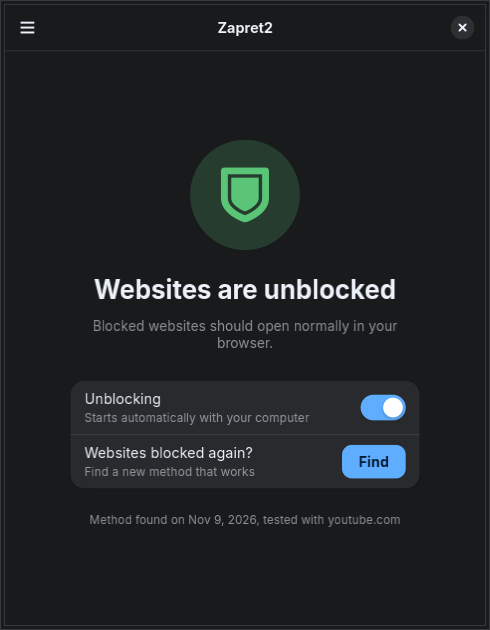
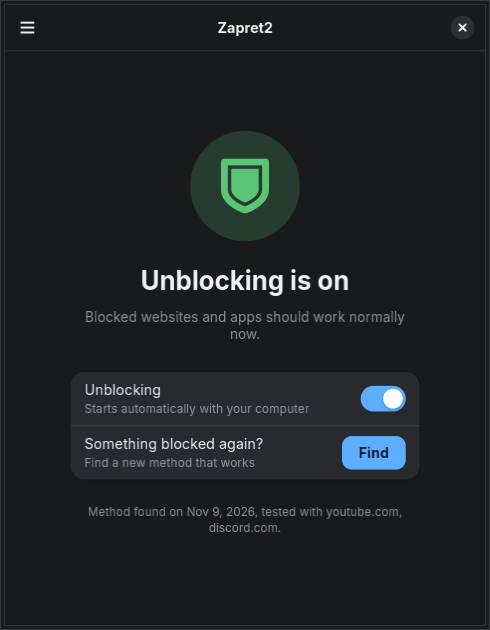
Document tray, autostart and several websites

diff --git a/README.md b/README.md
@@ -1,6 +1,6 @@
 # Zapret2 GUI
 
-One-click DPI bypass for Linux. Type a website that is blocked for you, and Zapret2 GUI sets up [zapret2](https://github.com/bol-van/zapret2), finds a bypass method that works on your connection and keeps it running.
+One-click DPI bypass for Linux. Type the websites that are blocked for you, and Zapret2 GUI sets up [zapret2](https://github.com/bol-van/zapret2), finds a bypass method that works on your connection and keeps it running for all websites and apps.
 
 <p align="center">
   <picture>
@@ -13,15 +13,16 @@ One-click DPI bypass for Linux. Type a website that is blocked for you, and Zapr
   </picture>
   <picture>
     <source media="(prefers-color-scheme: dark)" srcset="docs/screenshots/home-dark.png">
-    <img alt="Websites are unblocked" src="docs/screenshots/home-light.png" width="32%">
+    <img alt="Unblocking is on" src="docs/screenshots/home-light.png" width="32%">
   </picture>
 </p>
 
 - No setup or knowledge needed: zapret2 is installed and configured for your system automatically.
 - Finds a working method with zapret2's own `blockcheck2` in its fastest mode.
+- Test several websites at once without making the search slower. For blocked apps, enter the website they use.
 - Bypass only applies to blocked sites (autohostlist), other sites are not touched.
-- On/off switch, starts with your computer.
-- Sites blocked again? Press **Find** to search for a new method.
+- Lives in the tray, starts with your computer. On/off from the tray menu.
+- Something blocked again? Press **Find** to search for a new method.
 
 ## Install
 
@@ -60,11 +61,15 @@ Packages and the install script pull these in automatically.
 
 ## Use
 
-1. Type a website that does not open for you.
+1. Type a website that does not open for you. Press **Add another website** for more. For a blocked app, type the website it uses, like `discord.com`.
 2. Press **Find a working method** and wait a few minutes.
-3. Done. Blocked websites open normally in any browser.
+3. Done. Blocked websites and apps work normally.
 
-If sites stop opening later, press **Find** to search again. The switch turns unblocking off and on.
+Closing the window keeps Zapret2 in the tray, and it starts there when you log in. Click the tray icon to open it, right-click for the on/off switch, a new search, or **Quit**. Unblocking itself is a system service, so it keeps working even when the app is closed.
+
+If something stops working later, press **Find** to search again.
+
+The tray needs a desktop with tray support: KDE Plasma, Cinnamon, XFCE, Budgie, LXQt and most others. On GNOME, install the [AppIndicator extension](https://extensions.gnome.org/extension/615/appindicator-support/) (Ubuntu has it by default). Without a tray, closing the window quits the app. To stop it starting at login, turn it off in your desktop's autostart settings or delete `/etc/xdg/autostart/zapret2-gui.desktop`.
 
 ## Uninstall
 
@@ -81,7 +86,7 @@ Uninstalling also stops and removes zapret2 and its firewall rules. Dependencies
 ## How it works
 
 - **Setup** downloads the latest zapret2 release, verifies its binaries against the release checksums and runs zapret2's `install_easy.sh` with every answer preset: nfqws2 on, autohostlist filtering, firewall type detected by zapret2, IPv6 only if it works, no list downloads, no flow offloading.
-- **Finding a method** pauses zapret2 and runs `blockcheck2.sh` in batch mode at the `veryquick` scan level against HTTPS (TLS 1.2, then TLS 1.3 if nothing works). The methods found are applied to the real service in order, and the first one that opens the website is kept. The website is added to zapret2's user host list. HTTP and QUIC keep zapret2's default methods.
+- **Finding a method** pauses zapret2 and runs `blockcheck2.sh` in batch mode at the `veryquick` scan level against HTTPS (TLS 1.2, then TLS 1.3 if nothing works). It only runs for the first website that is actually blocked, so extra websites don't slow it down. Each method found is then applied to zapret2 and checked against all websites in parallel; the first one that opens all of them is kept, otherwise the one that opens the most. The websites are added to zapret2's user host list. HTTP and QUIC keep zapret2's default methods.
 - **Cancel**, or closing the window, stops the test and restores the previous settings.
 - Root actions run through `pkexec` and one helper, `zapret2-gui-helper`. The GUI itself never runs as root.
 
@@ -89,22 +94,24 @@ Uninstalling also stops and removes zapret2 and its firewall rules. Dependencies
 |---|---|
 | `/opt/zapret2` | zapret2, config in `/opt/zapret2/config` |
 | `/opt/zapret2-gui` | the app and its root helper |
-| `/var/lib/zapret2-gui/state.json` | chosen method and website |
+| `/var/lib/zapret2-gui/state.json` | chosen method and websites |
+| `/etc/xdg/autostart/zapret2-gui.desktop` | starts the app in the tray at login |
 | `/usr/share/polkit-1/actions/org.zapret2gui.policy` | password prompt rules |
 
 ## Troubleshooting
 
-- **"This website isn't blocked"**: it opened without help. Enter a site that does not open for you.
+- **"Nothing to unblock"**: the websites opened without help. Enter one that does not open for you.
 - **"No working method found"**: your provider likely blocks the site by IP address. zapret2 cannot bypass that, a VPN can.
 - **DNS warning**: your provider may tamper with DNS answers. Turn on secure DNS (DNS over HTTPS) in your browser or system.
+- **"Still not opening"** under the status: the method works for your other websites but not for these. Press **Find** with only those websites to look for a method for them.
 - **More detail**: the working screen has a **Details** section with the full zapret2 output.
 
 ## Development
 
 ```
-src/zapret2-gui            GTK 4 / libadwaita app (Python)
+src/zapret2-gui            GTK 4 / libadwaita app with tray icon (Python)
 src/zapret2-gui-helper     root helper: install, blockcheck, enable, disable, uninstall
-data/                      desktop entry, icon, polkit policy
+data/                      desktop and autostart entries, icons, polkit policy
 install.sh, uninstall.sh   script install for any distro
 packaging/nfpm.yaml        deb, rpm, Arch and Alpine packages
 packaging/arch/            AUR PKGBUILD and update script
@@ -125,7 +132,7 @@ Test a package in a clean container:
 docker run --rm -v "$PWD/dist:/dist:ro" -v "$PWD/packaging:/p:ro" fedora:latest sh /p/test-package.sh rpm-dnf /dist
 ```
 
-The helper also runs on its own as root, for example `sudo src/zapret2-gui-helper --plain blockcheck example.com`.
+The helper also runs on its own as root, for example `sudo src/zapret2-gui-helper --plain blockcheck example.com discord.com`.
 
 ### Releasing
 
